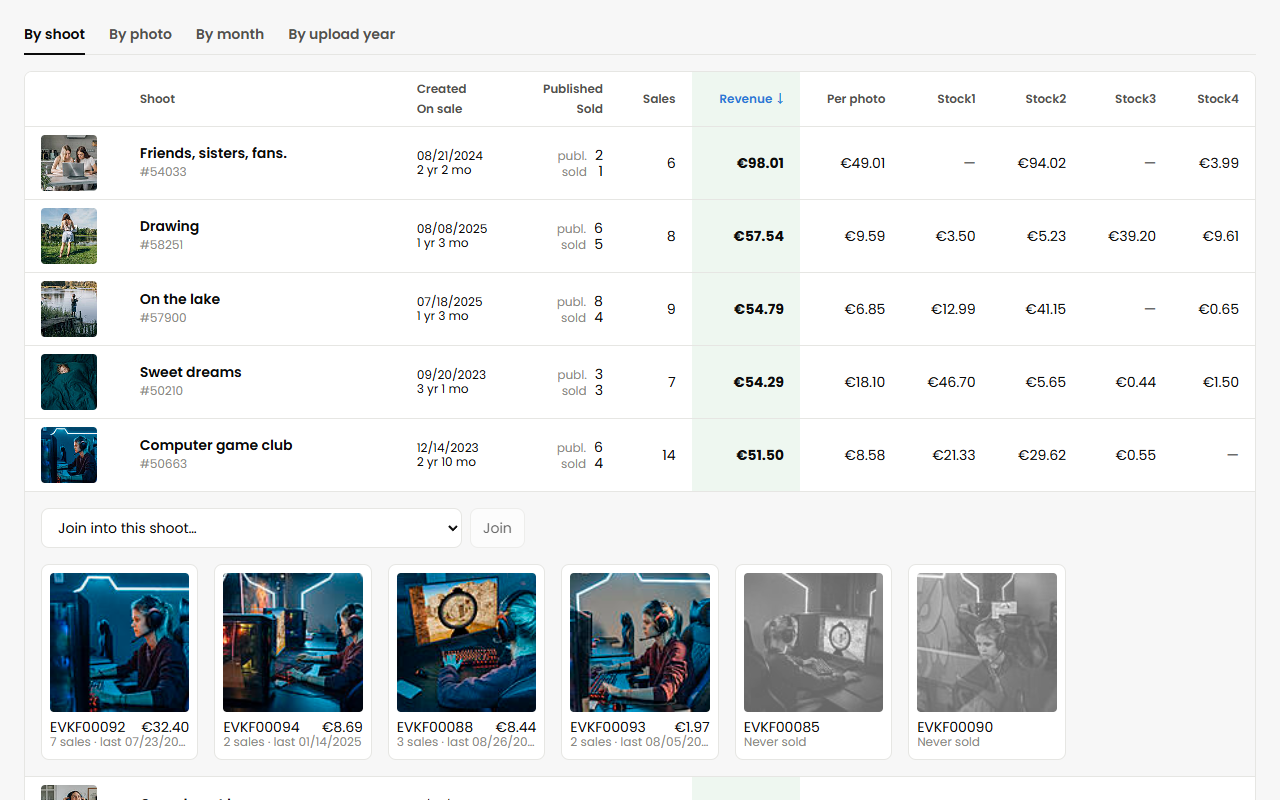
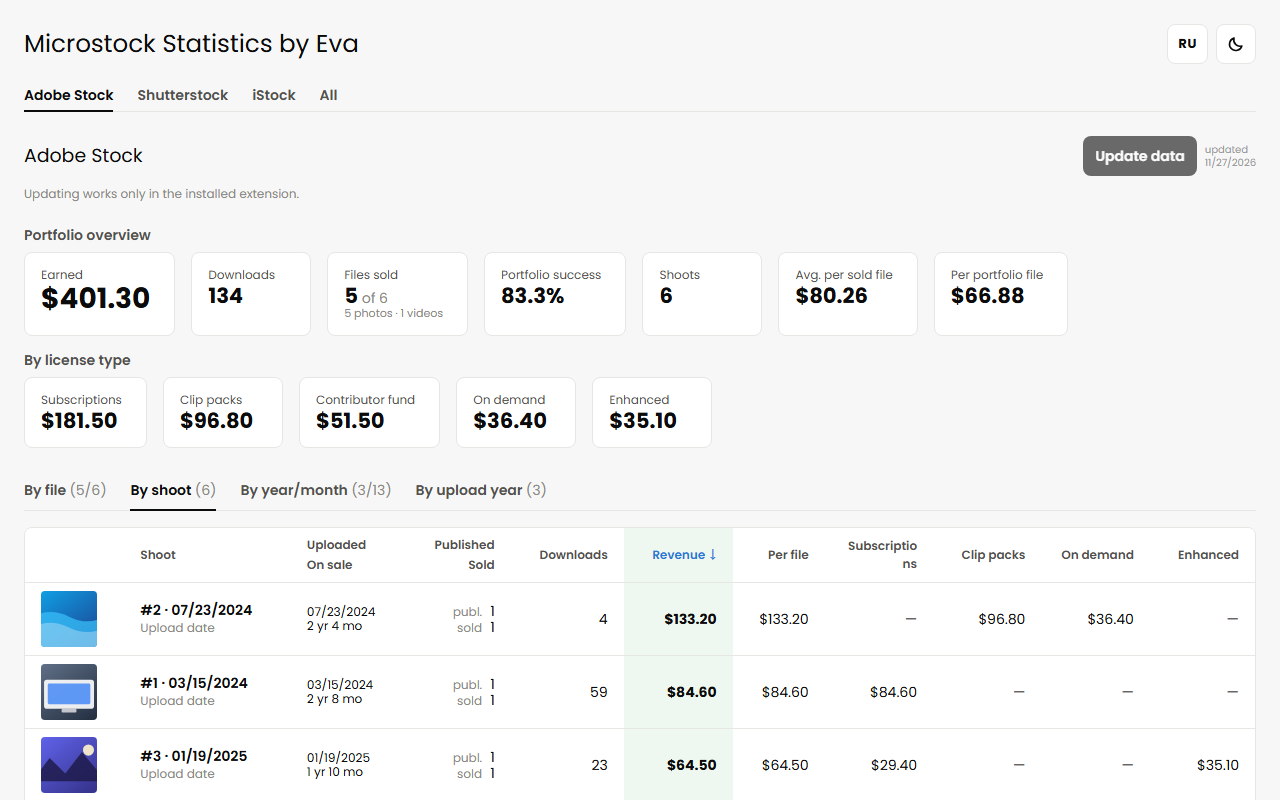
chore: update Chrome Web Store listing, locales, privacy policy, and screenshots

diff --git a/store/privacy-policy.html b/store/privacy-policy.html
@@ -3,7 +3,7 @@
   <head>
     <meta charset="UTF-8" />
     <meta name="viewport" content="width=device-width, initial-scale=1.0" />
-    <title>Privacy Policy — Contributor Stats for Shutterstock</title>
+    <title>Privacy Policy — Microstock Statistics</title>
     <style>
       :root {
         color-scheme: light dark;
@@ -85,31 +85,33 @@
       <section lang="en">
         <span class="lang">ENGLISH</span>
         <h1>Privacy Policy</h1>
-        <p>
-          Contributor Stats for Shutterstock · Last updated: November 26, 2026
-        </p>
+        <p>Microstock Statistics · Last updated: November 27, 2026</p>
 
         <h2>What the extension does</h2>
         <p>
-          Contributor Stats for Shutterstock shows a Shutterstock contributor
-          their own sales statistics: earnings by file (photos and videos), by
+          Microstock Statistics shows microstock contributors their own sales
+          statistics across Shutterstock, Adobe Stock and iStock (Getty Images):
+          earnings by file (photos, illustrations, vectors and videos), by
           shoot, by month and by license type. It is an independent project and
-          is not affiliated with, endorsed by or sponsored by Shutterstock.
+          is not affiliated with, endorsed by or sponsored by Shutterstock,
+          Adobe Stock, iStock or Getty Images.
         </p>
 
         <h2>What data it uses</h2>
         <p>
           When you click “Load data” or “Update data”, the extension reads, from
-          your own logged-in Shutterstock contributor account, the same
-          information the Shutterstock contributor portal shows you: your sales
-          and earnings (amount, downloads, license type and date), your lifetime
-          totals, and your published portfolio (asset IDs, media type, titles,
-          upload dates and thumbnail links).
+          your own logged-in contributor accounts, the same information the
+          official contributor portals show you: your sales, royalty statements
+          and earnings (amount, downloads, license type, bonuses and date), your
+          lifetime totals, and your published portfolio (asset IDs, media type,
+          titles, upload dates and thumbnail links).
         </p>
         <p>
-          You can also create your own shoots, rename upload-date shoots and
-          join shoots together. The extension remembers your theme and language
-          choice.
+          Thumbnails are loaded in your browser for display and to locally match
+          identical files across different agencies. You can also create your
+          own shoots, rename upload-date shoots, join shoots together and link
+          or unlink files across agencies. The extension remembers your theme
+          and language choice.
         </p>
 
         <h2>Where the data is stored</h2>
@@ -123,10 +125,15 @@
             extension has no servers, no analytics and no tracking.
           </li>
           <li>
-            The only website the extension talks to is submit.shutterstock.com,
-            using your existing login, the same way the Shutterstock contributor
-            portal itself does. Your password is never seen or stored by the
-            extension.
+            The extension communicates only with the official contributor
+            portals and their thumbnail CDNs
+            (<code>submit.shutterstock.com</code>,
+            <code>picdn.net</code>, <code>contributor.stock.adobe.com</code>,
+            <code>stock.adobe.com</code>, <code>ftcdn.net</code>,
+            <code>esp.gettyimages.com</code>,
+            <code>accountmanagement.gettyimages.com</code>,
+            <code>istockphoto.com</code>), using your existing login. Your
+            passwords are never seen or stored by the extension.
           </li>
           <li>The data is not sold, shared or used for any other purpose.</li>
         </ul>
@@ -148,28 +155,33 @@
       <section lang="ru">
         <span class="lang">РУССКИЙ</span>
         <h1>Политика конфиденциальности</h1>
-        <p>Contributor Stats for Shutterstock · Обновлено: 26 ноября 2026</p>
+        <p>Microstock Statistics · Обновлено: 27 ноября 2026</p>
 
         <h2>Что делает расширение</h2>
         <p>
-          Contributor Stats for Shutterstock показывает автору Shutterstock его
-          собственную статистику продаж: доход по файлам (фото и видео), по
+          Microstock Statistics показывает авторам микростоков их собственную
+          статистику продаж на Shutterstock, Adobe Stock и iStock (Getty
+          Images): доход по файлам (фото, иллюстрации, векторы и видео), по
           съёмкам, по месяцам и по типам лицензий. Это независимый проект, он не
-          связан с Shutterstock и не одобрен им.
+          связан с Shutterstock, Adobe Stock, iStock или Getty Images и не
+          одобрен ими.
         </p>
 
         <h2>Какие данные используются</h2>
         <p>
           Когда вы нажимаете «Загрузить данные» или «Обновить данные»,
-          расширение получает из вашего собственного аккаунта автора
-          Shutterstock, в который вы уже вошли, ту же информацию, что показывает
-          сайт submit.shutterstock.com: продажи и доход (сумма, число загрузок,
-          тип лицензии и дата), общие итоги и портфолио (ID файлов, тип медиа,
-          описания, даты загрузки и ссылки на превью).
+          расширение получает из ваших собственных аккаунтов автора, в которые
+          вы уже вошли, ту же информацию, что показывают официальные порталы
+          авторов: продажи, выписки по роялти и доход (сумма, число загрузок,
+          тип лицензии, бонусы и дата), общие итоги и портфолио (ID файлов, тип
+          медиа, описания, даты загрузки и ссылки на превью).
         </p>
         <p>
-          Вы также можете собирать свои съёмки, переименовывать съёмки по датам
-          и объединять съёмки. Расширение запоминает выбранные тему и язык.
+          Превью загружаются в вашем браузере для отображения и локального
+          сопоставления одинаковых файлов между стоками. Вы также можете
+          собирать свои съёмки, переименовывать и объединять их, связывать и
+          отвязывать файлы между стоками. Расширение запоминает выбранные тему и
+          язык.
         </p>
 
         <h2>Где хранятся данные</h2>
@@ -180,9 +192,14 @@
             нет серверов, аналитики и отслеживания.
           </li>
           <li>
-            Расширение обращается только к submit.shutterstock.com через ваш уже
-            выполненный вход, так же как это делает сам сайт. Пароль расширение
-            не видит и не хранит.
+            Расширение обращается только к официальным порталам авторов и их CDN
+            превью (<code>submit.shutterstock.com</code>,
+            <code>picdn.net</code>, <code>contributor.stock.adobe.com</code>,
+            <code>stock.adobe.com</code>, <code>ftcdn.net</code>,
+            <code>esp.gettyimages.com</code>,
+            <code>accountmanagement.gettyimages.com</code>,
+            <code>istockphoto.com</code>) через ваш уже выполненный вход. Пароли
+            расширение не видит и не хранит.
           </li>
           <li>
             Данные не продаются, не передаются и не используются для других

diff --git a/store/listing.md b/store/listing.md
@@ -10,106 +10,116 @@
 1. Проверить версию: `version` в `public/manifest.json` (`1.0.0`) и
    `version` в `package.json` должны совпадать.
 2. Собрать архив: `npm run package` →
-   `release/contributor-stats-for-shutterstock-1.0.0.zip`. Внутри то же, что в
+   `release/microstock-statistics-1.0.0.zip`. Внутри то же, что в
    `dist/`: `manifest.json` в корне архива, иконки, `_locales/en` и `_locales/ru`.
 3. Последняя проверка: в `chrome://extensions` загрузить распакованную `dist/`
-   и один раз полностью загрузить данные. Убедиться, что нет ошибок на карточке
+   и полностью загрузить данные по стокам. Убедиться, что нет ошибок на карточке
    расширения.
 
 ### 2. Выложить политику конфиденциальности
 
 Файл — `store/privacy-policy.html` (английский и русский на одной странице).
+Выложить на публичный URL (например, GitHub Pages) и указать ссылку в Developer Dashboard.
 
 ## Картинки
 
-| Файл                                | Куда                 |
-| ----------------------------------- | -------------------- |
-| `public/icons/shutterstock-128.png` | Store icon (128×128) |
+| Файл                              | Куда                                                            |
+| --------------------------------- | --------------------------------------------------------------- |
+| `public/icons/microstock-128.png` | Store icon (128×128)                                            |
+| `store/promo-small-440x280.png`   | Small promo tile (440×280) — обновить под Microstock Statistics |
+| `store/screenshots/*.png`         | Screenshots EN (1280×800, до 5 шт.) — обновить под новый UI     |
+| `store/screenshots/ru/*.png`      | Screenshots RU (1280×800, до 5 шт.) — обновить под новый UI     |
 
 ## Store listing
 
-**Name:** Contributor Stats for Shutterstock
+**Name:** Microstock Statistics
 
 **Category:** Productivity → Tools
 
 **Language:** English (основной) и Russian (`public/_locales/ru/messages.json`).
 
-**Русское название:** Статистика продаж для авторов Shutterstock
+**Русское название:** Статистика по микростокам
 
 ### Summary
 
-EN (130):
+EN (129):
 
-> Sales statistics for Shutterstock contributors: earnings by file, shoot, month and license type. Not affiliated with Shutterstock.
+> Sales stats for microstock contributors: earnings by file, shoot, month and license across Shutterstock, Adobe Stock, and iStock.
 
-RU (127):
+RU (125):
 
-> Статистика продаж для авторов Shutterstock: доход по файлам, съёмкам, месяцам и типам лицензий. Не связано с Shutterstock.
+> Статистика продаж для авторов микростоков (Shutterstock, Adobe Stock, iStock): доход по файлам, съёмкам, месяцам и лицензиям.
 
 ### Description — EN
 
 ```
-See what every photo, video and shoot actually earns you on Shutterstock.
+See what every photo, illustration, vector, video and shoot actually earns you across Shutterstock, Adobe Stock and iStock.
 
-Shutterstock shows your earnings across daily summaries and license tabs. This extension collects all of them from your own contributor account and puts them together:
+Microstock portals split your earnings across daily reports, monthly statements and separate license tabs. This extension collects all of them from your own contributor accounts and brings them together in one place:
 
-• By shoot — files grouped automatically by upload date (both photos and videos): revenue, downloads, published and sold files, revenue per file, time on sale, split by license type. Rename shoots, join multi-day uploads, or select files to group into your own shoots.
-• By file — every photo, illustration and video that sold, with search, media filter and sorting by any column.
-• By year/month — revenue per calendar year, plus revenue and downloads per month over your portfolio growth, including Contributor Fund and Referrals.
+• All stocks together — combined overview across Shutterstock, Adobe Stock and iStock, plus automatic matching of identical files between agencies (with manual link/unlink).
+• By shoot — files grouped automatically by upload date (photos and videos): revenue, downloads, published and sold files, revenue per file, time on sale, split by license type. Rename shoots, join multi-day uploads, or select files to group into your own shoots.
+• By file — every photo, illustration, vector and video that sold, with search, media filter and sorting by any column.
+• By year/month — revenue per calendar year, plus revenue and downloads per month over your portfolio growth, including Contributor Fund, Referrals and Firefly bonuses.
 • By upload year — how the shoots of each upload year keep selling as they get older.
 • Portfolio overview — total earnings, downloads, files sold, portfolio success, average per sold file and per portfolio file, earnings by license type.
 
 English and Russian, light and dark theme, works on narrow screens.
 
-Privacy: everything stays in your browser. The extension talks only to submit.shutterstock.com using your existing login, has no servers and no tracking, and never sees your password. “Delete all data” removes everything.
+Privacy: everything stays in your browser. The extension talks only to the official contributor portals using your existing login, has no servers and no tracking, and never sees your password. “Delete all data” removes everything.
 
-How to use: log in at submit.shutterstock.com as a contributor, click the extension icon, then “Load data”.
+How to use: log in to your contributor account(s) (submit.shutterstock.com, contributor.stock.adobe.com, esp.gettyimages.com & accountmanagement.gettyimages.com), click the extension icon, open a stock tab and click “Load data”.
 
-This is an independent project and is not affiliated with Shutterstock.
+This is an independent project and is not affiliated with Shutterstock, Adobe Stock, or iStock / Getty Images.
 ```
 
 ### Description — RU
 
 ```
-Узнайте, сколько на самом деле приносит каждое фото, видео и съёмка на Shutterstock.
+Узнайте, сколько на самом деле приносит каждое фото, иллюстрация, вектор, видео и съёмка на Shutterstock, Adobe Stock и iStock.
 
-Shutterstock показывает начисления в дневных отчётах и по отдельным вкладкам лицензий. Расширение собирает их из вашего аккаунта автора и сводит вместе:
+Стоки показывают начисления в разрозненных отчётах, месячных выписках и отдельных вкладках лицензий. Расширение собирает их из ваших аккаунтов автора и сводит вместе:
 
+• Все стоки вместе — общая статистика по Shutterstock, Adobe Stock и iStock, а также автоматическое сопоставление одинаковых файлов между стоками (с ручной привязкой и отвязкой).
 • По съёмкам — файлы автоматически группируются по дате загрузки (и фото, и видео): доход, загрузки, опубликованные и проданные файлы, доход на один файл, срок в продаже, разбивка по типам лицензий. Съёмки можно переименовывать, объединять между датами или выделять нужные файлы в свои съёмки.
-• По файлам — все проданные фото, иллюстрации и видео с поиском, фильтром по типу медиа и сортировкой по любой колонке.
-• По годам/месяцам — доход за каждый календарный год, а также доход и число загрузок по месяцам на фоне роста портфеля (включая «Средства автора» и «Рекомендации»).
+• По файлам — все проданные фото, иллюстрации, векторы и видео с поиском, фильтром по типу медиа и сортировкой по любой колонке.
+• По годам/месяцам — доход за каждый календарный год, а также доход и число загрузок по месяцам на фоне роста портфеля (включая «Средства автора», «Рекомендации» и бонусы Firefly).
 • По годам загрузки — как продаются съёмки каждого года по мере того, как стареют.
 • Общая статистика — весь доход, загрузки, проданные файлы, успешность портфеля, средний доход с проданного файла и на один файл портфеля, доход по типам лицензий.
 
 Английский и русский язык, светлая и тёмная тема, удобно на узких экранах.
 
-Конфиденциальность: всё остаётся в вашем браузере. Расширение обращается только к submit.shutterstock.com через ваш уже выполненный вход, у него нет серверов и отслеживания, пароль оно не видит. Кнопка «Удалить все данные» стирает всё.
+Конфиденциальность: всё остаётся в вашем браузере. Расширение обращается только к официальным порталам авторов через ваш уже выполненный вход, у него нет серверов и отслеживания, пароль оно не видит. Кнопка «Удалить все данные» стирает всё.
 
-Как пользоваться: войдите на submit.shutterstock.com как автор, нажмите на значок расширения, затем «Загрузить данные».
+Как пользоваться: войдите в нужные аккаунты автора (submit.shutterstock.com, contributor.stock.adobe.com, esp.gettyimages.com и accountmanagement.gettyimages.com), нажмите на значок расширения, выберите вкладку стока и нажмите «Загрузить данные».
 
-Это независимый проект, он не связан с Shutterstock.
+Это независимый проект, он не связан с Shutterstock, Adobe Stock и iStock / Getty Images.
 ```
 
 ## Конфиденциальность (вкладка Privacy)
 
 ### Single purpose
 
-> Shows a Shutterstock contributor their own sales statistics — earnings by photo, video, shoot, month and license type — collected from their logged-in Shutterstock account.
+> Shows microstock contributors their own sales statistics — earnings by photo, video, shoot, month and license type — collected from their logged-in Shutterstock, Adobe Stock and iStock (Getty Images) contributor accounts.
 
 ### Permission justification
 
 **storage:**
 
-> Stores the downloaded sales statistics, incremental sync cache and the user's own settings (own shoots, renames, joined shoots) locally, so the statistics are available without downloading everything again.
+> Stores the downloaded sales statistics, portfolio metadata, incremental sync cache, cross-stock file matches and the user's own settings (own shoots, renames, joined shoots, theme, language) locally, so the statistics are available without downloading everything again.
 
 **unlimitedStorage:**
 
-> Large portfolios (thousands of files with multi-year daily sales history) can exceed the default extension storage quota. The data stays on the user's device.
+> Large portfolios across multiple agencies (thousands of files with multi-year sales history) can exceed the default extension storage quota. All data stays locally on the user's device.
 
 **scripting:**
 
-> The extension runs requests inside the user's open submit.shutterstock.com tab so they use the user's existing Shutterstock login, exactly like the Shutterstock website itself. No code is injected into any other site.
+> The extension executes read-only data requests inside the user's already open contributor portal tabs (`submit.shutterstock.com`, `contributor.stock.adobe.com`, `esp.gettyimages.com`, `accountmanagement.gettyimages.com`) so they use the user's existing login session, exactly like the portals themselves. No code is injected into any other site.
 
-**Host permission `https://submit.shutterstock.com/*`:**
+**Host permissions:**
 
-> submit.shutterstock.com is the only site the extension reads data from: the user's own contributor earnings, daily sales summaries and published photo/video catalog.
+- `https://*.shutterstock.com/*` — reads the user's own Shutterstock contributor earnings, daily sales summaries and published portfolio from `submit.shutterstock.com`.
+- `https://*.picdn.net/*` — loads Shutterstock asset thumbnail images for display in the dashboard and local visual matching of identical files across stocks.
+- `https://contributor.stock.adobe.com/*` and `https://stock.adobe.com/*` — reads the user's own Adobe Stock contributor portfolio, sales history and Firefly bonuses.
+- `https://*.ftcdn.net/*` — loads Adobe Stock asset thumbnail images for display in the dashboard and local visual matching of identical files across stocks.
+- `https://*.gettyimages.com/*` and `https://*.istockphoto.com/*` — reads the user's own iStock / Getty contributor royalty statements, downloads and portfolio metadata from `esp.gettyimages.com` and `accountmanagement.gettyimages.com`, and loads asset thumbnails for display and cross-stock visual matching.
